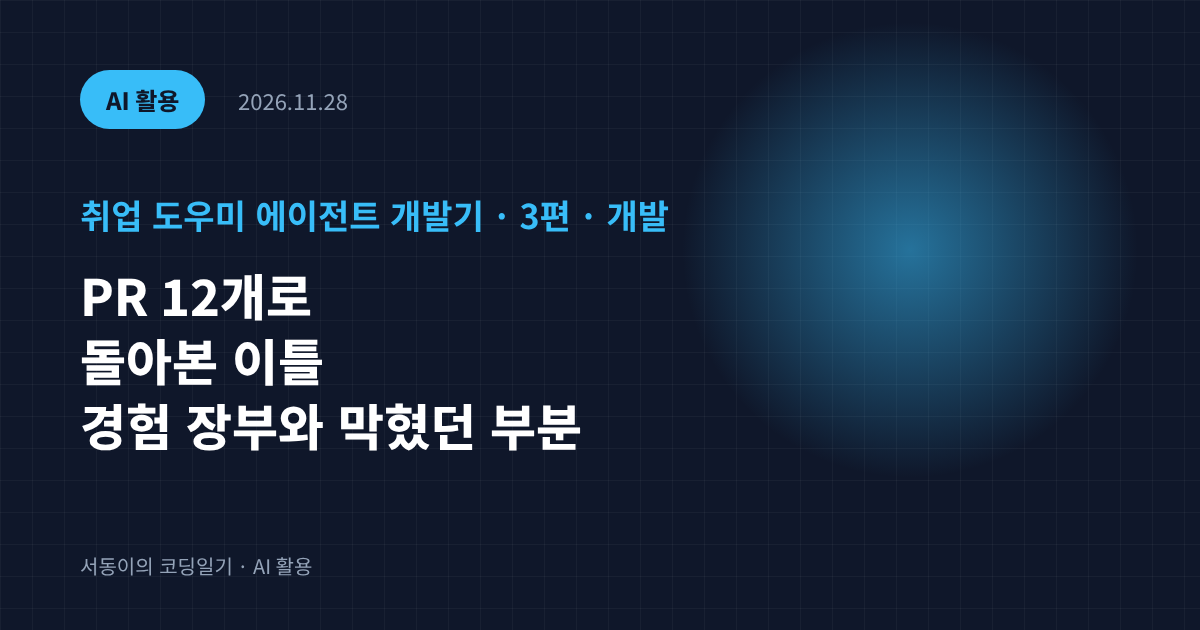
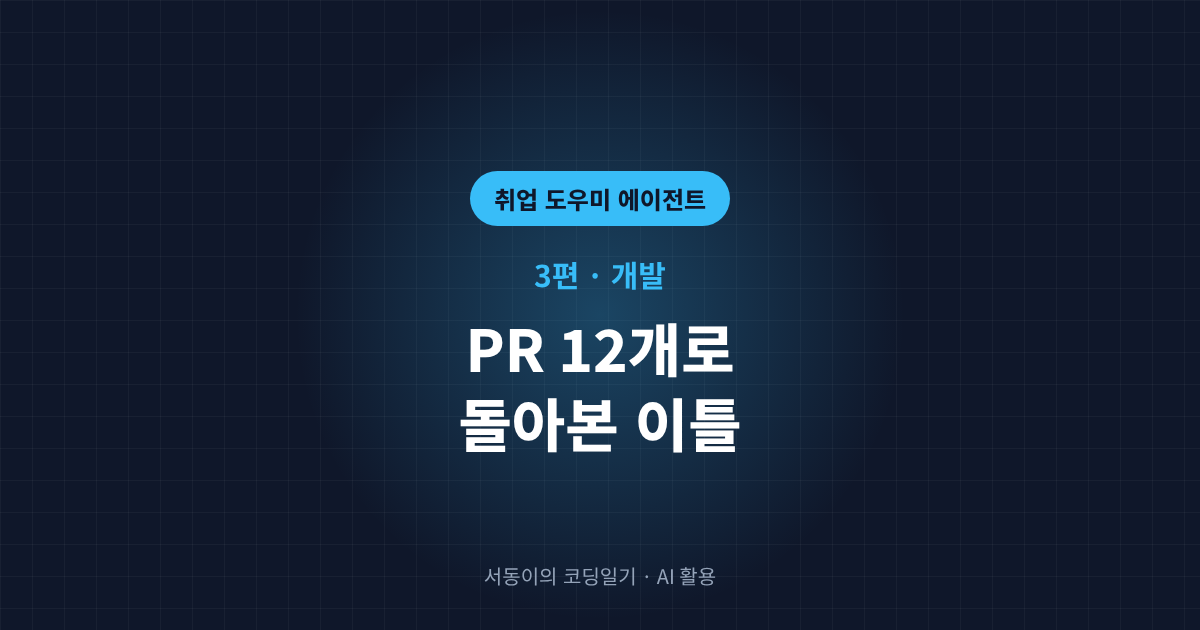
✏ 취업 도우미 에이전트 개발기 8편 제목 짧게, 대표 이미지 가운데 정렬
Claude-Session: https://claude.ai/code/session_01HW55fgg6YyHKDuQaFApbM1

diff --git a/README.md b/README.md
@@ -28,14 +28,14 @@
 - 🔬 **AI 심층 분석** · [AI가 뒤집어놓은 수학계 ① 리만 가설, 167년 난제를 AI가 풀었을까](ai-deep/2026/11/2026-11-28-ai-math-01-riemann.md) · [티스토리](https://dongseodong.tistory.com/81)
 - 🔬 **AI 심층 분석** · [AI가 뒤집어놓은 수학계 ② 양자 알고리즘, AI가 설계하고 증명까지 한 양자 회로](ai-deep/2026/11/2026-11-28-ai-math-02-quantum.md) · [티스토리](https://dongseodong.tistory.com/82)
 - 🔬 **AI 심층 분석** · [AI가 뒤집어놓은 수학계 ③ VP ≠ VNP, 47년 난제를 4시간 차이로 풀었다고 발표한 Claude와 OpenAI](ai-deep/2026/11/2026-11-28-ai-math-03-vp-vnp.md) · [티스토리](https://dongseodong.tistory.com/83)
-- 🧪 **AI 활용** · [취업 도우미 에이전트 개발기 1편 · 기획 (Figma, Notion)](ai-usage/2026/11/2026-11-28-job-helper-01-plan.md) · [티스토리](https://dongseodong.tistory.com/73)
-- 🧪 **AI 활용** · [취업 도우미 에이전트 개발기 2편 · 설계 (FastAPI, SQLite)](ai-usage/2026/11/2026-11-28-job-helper-02-design.md) · [티스토리](https://dongseodong.tistory.com/74)
-- 🧪 **AI 활용** · [취업 도우미 에이전트 개발기 3편 · 개발 (Notion OAuth, GitHub Actions)](ai-usage/2026/11/2026-11-28-job-helper-03-dev.md) · [티스토리](https://dongseodong.tistory.com/75)
-- 🧪 **AI 활용** · [취업 도우미 에이전트 개발기 · 윈도우에서만 터진 asyncio.run 오류 (FastAPI)](ai-usage/2026/11/2026-11-28-job-helper-asyncio-run-windows.md) · [티스토리](https://dongseodong.tistory.com/78)
-- 🧪 **AI 활용** · [취업 도우미 에이전트 개발기 · 앱에서 AI 구독을 쓰는 방법 (Claude Code CLI)](ai-usage/2026/11/2026-11-28-job-helper-official-cli.md) · [티스토리](https://dongseodong.tistory.com/80)
-- 🧪 **AI 활용** · [취업 도우미 에이전트 개발기 · 스택 PR이 main에 안 들어간 이유 (GitHub)](ai-usage/2026/11/2026-11-28-job-helper-stacked-pr-base.md) · [티스토리](https://dongseodong.tistory.com/77)
-- 🧪 **AI 활용** · [취업 도우미 에이전트 개발기 · 토큰 절약 vs 경험 누락 0 (LLM 설계)](ai-usage/2026/11/2026-11-28-job-helper-token-vs-zero-miss.md) · [티스토리](https://dongseodong.tistory.com/76)
-- 🧪 **AI 활용** · [취업 도우미 에이전트 개발기 · 맥에서 Windows 한국어 OCR 테스트하기 (GitHub Actions)](ai-usage/2026/11/2026-11-28-job-helper-windows-korean-ocr-ci.md) · [티스토리](https://dongseodong.tistory.com/79)
+- 🧪 **AI 활용** · [1편 기획: 한 사람을 위한 로컬 앱 (Figma, Notion)](ai-usage/2026/11/2026-11-28-job-helper-01-plan.md) · [티스토리](https://dongseodong.tistory.com/73)
+- 🧪 **AI 활용** · [2편 설계: 로컬 앱 구조와 15인 심사 (FastAPI, SQLite)](ai-usage/2026/11/2026-11-28-job-helper-02-design.md) · [티스토리](https://dongseodong.tistory.com/74)
+- 🧪 **AI 활용** · [3편 개발: PR 12개로 돌아본 이틀 (Notion OAuth, GitHub Actions)](ai-usage/2026/11/2026-11-28-job-helper-03-dev.md) · [티스토리](https://dongseodong.tistory.com/75)
+- 🧪 **AI 활용** · [윈도우에서만 터진 asyncio.run 오류 (FastAPI)](ai-usage/2026/11/2026-11-28-job-helper-asyncio-run-windows.md) · [티스토리](https://dongseodong.tistory.com/78)
+- 🧪 **AI 활용** · [앱에서 AI 구독을 쓰는 방법 (Claude Code CLI)](ai-usage/2026/11/2026-11-28-job-helper-official-cli.md) · [티스토리](https://dongseodong.tistory.com/80)
+- 🧪 **AI 활용** · [스택 PR이 main에 안 들어간 이유 (GitHub)](ai-usage/2026/11/2026-11-28-job-helper-stacked-pr-base.md) · [티스토리](https://dongseodong.tistory.com/77)
+- 🧪 **AI 활용** · [토큰 절약 vs 경험 누락 0 (LLM 설계)](ai-usage/2026/11/2026-11-28-job-helper-token-vs-zero-miss.md) · [티스토리](https://dongseodong.tistory.com/76)
+- 🧪 **AI 활용** · [맥에서 Windows 한국어 OCR 테스트하기 (GitHub Actions)](ai-usage/2026/11/2026-11-28-job-helper-windows-korean-ocr-ci.md) · [티스토리](https://dongseodong.tistory.com/79)
 - 💻 **Computer Science** · [OSI 7계층으로 이해하는 L2·L3·L4·L7 로드밸런서와 부하 분산 알고리즘](cs/2026/11/2026-11-28-load-balancer-types-osi.md) · [티스토리](https://dongseodong.tistory.com/85)
 - 💻 **Computer Science** · [택배 비유로 이해하는 계층별 역할, 프로토콜, 장비, 캡슐화](cs/2026/11/2026-11-28-osi-7-layer.md) · [티스토리](https://dongseodong.tistory.com/84)
 

diff --git a/ai-usage/README.md b/ai-usage/README.md
@@ -7,13 +7,13 @@
 
 ## 2026-11
 
-- 2026-11-28 · [취업 도우미 에이전트 개발기 1편 · 기획 (Figma, Notion)](2026/11/2026-11-28-job-helper-01-plan.md) · [티스토리](https://dongseodong.tistory.com/73)
-- 2026-11-28 · [취업 도우미 에이전트 개발기 2편 · 설계 (FastAPI, SQLite)](2026/11/2026-11-28-job-helper-02-design.md) · [티스토리](https://dongseodong.tistory.com/74)
-- 2026-11-28 · [취업 도우미 에이전트 개발기 3편 · 개발 (Notion OAuth, GitHub Actions)](2026/11/2026-11-28-job-helper-03-dev.md) · [티스토리](https://dongseodong.tistory.com/75)
-- 2026-11-28 · [취업 도우미 에이전트 개발기 · 윈도우에서만 터진 asyncio.run 오류 (FastAPI)](2026/11/2026-11-28-job-helper-asyncio-run-windows.md) · [티스토리](https://dongseodong.tistory.com/78)
-- 2026-11-28 · [취업 도우미 에이전트 개발기 · 앱에서 AI 구독을 쓰는 방법 (Claude Code CLI)](2026/11/2026-11-28-job-helper-official-cli.md) · [티스토리](https://dongseodong.tistory.com/80)
-- 2026-11-28 · [취업 도우미 에이전트 개발기 · 스택 PR이 main에 안 들어간 이유 (GitHub)](2026/11/2026-11-28-job-helper-stacked-pr-base.md) · [티스토리](https://dongseodong.tistory.com/77)
-- 2026-11-28 · [취업 도우미 에이전트 개발기 · 토큰 절약 vs 경험 누락 0 (LLM 설계)](2026/11/2026-11-28-job-helper-token-vs-zero-miss.md) · [티스토리](https://dongseodong.tistory.com/76)
-- 2026-11-28 · [취업 도우미 에이전트 개발기 · 맥에서 Windows 한국어 OCR 테스트하기 (GitHub Actions)](2026/11/2026-11-28-job-helper-windows-korean-ocr-ci.md) · [티스토리](https://dongseodong.tistory.com/79)
+- 2026-11-28 · [1편 기획: 한 사람을 위한 로컬 앱 (Figma, Notion)](2026/11/2026-11-28-job-helper-01-plan.md) · [티스토리](https://dongseodong.tistory.com/73)
+- 2026-11-28 · [2편 설계: 로컬 앱 구조와 15인 심사 (FastAPI, SQLite)](2026/11/2026-11-28-job-helper-02-design.md) · [티스토리](https://dongseodong.tistory.com/74)
+- 2026-11-28 · [3편 개발: PR 12개로 돌아본 이틀 (Notion OAuth, GitHub Actions)](2026/11/2026-11-28-job-helper-03-dev.md) · [티스토리](https://dongseodong.tistory.com/75)
+- 2026-11-28 · [윈도우에서만 터진 asyncio.run 오류 (FastAPI)](2026/11/2026-11-28-job-helper-asyncio-run-windows.md) · [티스토리](https://dongseodong.tistory.com/78)
+- 2026-11-28 · [앱에서 AI 구독을 쓰는 방법 (Claude Code CLI)](2026/11/2026-11-28-job-helper-official-cli.md) · [티스토리](https://dongseodong.tistory.com/80)
+- 2026-11-28 · [스택 PR이 main에 안 들어간 이유 (GitHub)](2026/11/2026-11-28-job-helper-stacked-pr-base.md) · [티스토리](https://dongseodong.tistory.com/77)
+- 2026-11-28 · [토큰 절약 vs 경험 누락 0 (LLM 설계)](2026/11/2026-11-28-job-helper-token-vs-zero-miss.md) · [티스토리](https://dongseodong.tistory.com/76)
+- 2026-11-28 · [맥에서 Windows 한국어 OCR 테스트하기 (GitHub Actions)](2026/11/2026-11-28-job-helper-windows-korean-ocr-ci.md) · [티스토리](https://dongseodong.tistory.com/79)
 - 2026-11-26 · [맥 미니 한 대로 티스토리 매일 3편 자동 발행하기 (launchd + Playwright + Pillow)](2026/11/2026-11-26-tistory-automation-mac-mini-batch.md) · [티스토리](https://dongseodong.tistory.com/66)
 - 2026-11-26 · [티스토리 블로그 GEO 세팅기: ChatGPT·Perplexity 같은 AI 검색에 잘 잡히게 만들기](2026/11/2026-11-26-tistory-geo-setup.md) · [티스토리](https://dongseodong.tistory.com/67)

diff --git a/ai-usage/2026/11/2026-11-28-job-helper-windows-korean-ocr-ci.md b/ai-usage/2026/11/2026-11-28-job-helper-windows-korean-ocr-ci.md
@@ -1,12 +1,12 @@
 ---
-title: "취업 도우미 에이전트 개발기 · 맥에서 Windows 한국어 OCR 테스트하기 (GitHub Actions)"
+title: "맥에서 Windows 한국어 OCR 테스트하기 (GitHub Actions)"
 date: 2026-11-28
 category: "AI 활용"
 tistory: https://dongseodong.tistory.com/79
 tags: ["GitHubActions", "CI", "WindowsOCR", "한국어OCR", "PowerShell", "윈도우러너", "파이썬", "취업도우미에이전트", "AI활용"]
 cover: assets/2026-11-28-job-helper-windows-korean-ocr-ci.png
 ---
-# 취업 도우미 에이전트 개발기 · 맥에서 Windows 한국어 OCR 테스트하기 (GitHub Actions)
+# 맥에서 Windows 한국어 OCR 테스트하기 (GitHub Actions)
 
 > 🧪 **AI 활용** · 2026-11-28 · 📝 [티스토리에서 보기](https://dongseodong.tistory.com/79)
 

diff --git a/ai-usage/2026/11/2026-11-28-job-helper-03-dev.md b/ai-usage/2026/11/2026-11-28-job-helper-03-dev.md
@@ -1,12 +1,12 @@
 ---
-title: "취업 도우미 에이전트 개발기 3편 · 개발 (Notion OAuth, GitHub Actions)"
+title: "3편 개발: PR 12개로 돌아본 이틀 (Notion OAuth, GitHub Actions)"
 date: 2026-11-28
 category: "AI 활용"
 tistory: https://dongseodong.tistory.com/75
 tags: ["취업도우미에이전트", "ClaudeCode", "FastAPI", "NotionAPI", "OAuth", "OCR", "GitHubActions", "사이드프로젝트", "AI활용"]
 cover: assets/2026-11-28-job-helper-03-dev.png
 ---
-# 취업 도우미 에이전트 개발기 3편 · 개발 (Notion OAuth, GitHub Actions)
+# 3편 개발: PR 12개로 돌아본 이틀 (Notion OAuth, GitHub Actions)
 
 > 🧪 **AI 활용** · 2026-11-28 · 📝 [티스토리에서 보기](https://dongseodong.tistory.com/75)
 

diff --git a/ai-usage/2026/11/2026-11-28-job-helper-asyncio-run-windows.md b/ai-usage/2026/11/2026-11-28-job-helper-asyncio-run-windows.md
@@ -1,12 +1,12 @@
 ---
-title: "취업 도우미 에이전트 개발기 · 윈도우에서만 터진 asyncio.run 오류 (FastAPI)"
+title: "윈도우에서만 터진 asyncio.run 오류 (FastAPI)"
 date: 2026-11-28
 category: "AI 활용"
 tistory: https://dongseodong.tistory.com/78
 tags: ["파이썬", "asyncio", "FastAPI", "이벤트루프", "WindowsOCR", "WinRT", "스레드풀", "취업도우미에이전트", "AI활용"]
 cover: assets/2026-11-28-job-helper-asyncio-run-windows.png
 ---
-# 취업 도우미 에이전트 개발기 · 윈도우에서만 터진 asyncio.run 오류 (FastAPI)
+# 윈도우에서만 터진 asyncio.run 오류 (FastAPI)
 
 > 🧪 **AI 활용** · 2026-11-28 · 📝 [티스토리에서 보기](https://dongseodong.tistory.com/78)
 

diff --git a/ai-usage/2026/11/2026-11-28-job-helper-official-cli.md b/ai-usage/2026/11/2026-11-28-job-helper-official-cli.md
@@ -1,12 +1,12 @@
 ---
-title: "취업 도우미 에이전트 개발기 · 앱에서 AI 구독을 쓰는 방법 (Claude Code CLI)"
+title: "앱에서 AI 구독을 쓰는 방법 (Claude Code CLI)"
 date: 2026-11-28
 category: "AI 활용"
 tistory: https://dongseodong.tistory.com/80
 tags: ["ClaudeCode", "GeminiCLI", "CLI", "AI구독", "LLM연동", "subprocess", "약관", "취업도우미에이전트", "AI활용"]
 cover: assets/2026-11-28-job-helper-official-cli.png
 ---
-# 취업 도우미 에이전트 개발기 · 앱에서 AI 구독을 쓰는 방법 (Claude Code CLI)
+# 앱에서 AI 구독을 쓰는 방법 (Claude Code CLI)
 
 > 🧪 **AI 활용** · 2026-11-28 · 📝 [티스토리에서 보기](https://dongseodong.tistory.com/80)
 

diff --git a/ai-usage/2026/11/2026-11-28-job-helper-stacked-pr-base.md b/ai-usage/2026/11/2026-11-28-job-helper-stacked-pr-base.md
@@ -1,12 +1,12 @@
 ---
-title: "취업 도우미 에이전트 개발기 · 스택 PR이 main에 안 들어간 이유 (GitHub)"
+title: "스택 PR이 main에 안 들어간 이유 (GitHub)"
 date: 2026-11-28
 category: "AI 활용"
 tistory: https://dongseodong.tistory.com/77
 tags: ["GitHub", "PullRequest", "스택PR", "StackedPR", "git", "브랜치전략", "rebase", "취업도우미에이전트", "AI활용"]
 cover: assets/2026-11-28-job-helper-stacked-pr-base.png
 ---
-# 취업 도우미 에이전트 개발기 · 스택 PR이 main에 안 들어간 이유 (GitHub)
+# 스택 PR이 main에 안 들어간 이유 (GitHub)
 
 > 🧪 **AI 활용** · 2026-11-28 · 📝 [티스토리에서 보기](https://dongseodong.tistory.com/77)
 

diff --git a/ai-usage/2026/11/2026-11-28-job-helper-token-vs-zero-miss.md b/ai-usage/2026/11/2026-11-28-job-helper-token-vs-zero-miss.md
@@ -1,12 +1,12 @@
 ---
-title: "취업 도우미 에이전트 개발기 · 토큰 절약 vs 경험 누락 0 (LLM 설계)"
+title: "토큰 절약 vs 경험 누락 0 (LLM 설계)"
 date: 2026-11-28
 category: "AI 활용"
 tistory: https://dongseodong.tistory.com/76
 tags: ["취업도우미에이전트", "LLM설계", "토큰절약", "프롬프트캐시", "증분갱신", "해시", "ClaudeCode", "AI활용", "RAG"]
 cover: assets/2026-11-28-job-helper-token-vs-zero-miss.png
 ---
-# 취업 도우미 에이전트 개발기 · 토큰 절약 vs 경험 누락 0 (LLM 설계)
+# 토큰 절약 vs 경험 누락 0 (LLM 설계)
 
 > 🧪 **AI 활용** · 2026-11-28 · 📝 [티스토리에서 보기](https://dongseodong.tistory.com/76)
 

diff --git a/ai-usage/2026/11/2026-11-28-job-helper-02-design.md b/ai-usage/2026/11/2026-11-28-job-helper-02-design.md
@@ -1,12 +1,12 @@
 ---
-title: "취업 도우미 에이전트 개발기 2편 · 설계 (FastAPI, SQLite)"
+title: "2편 설계: 로컬 앱 구조와 15인 심사 (FastAPI, SQLite)"
 date: 2026-11-28
 category: "AI 활용"
 tistory: https://dongseodong.tistory.com/74
 tags: ["취업도우미에이전트", "FastAPI", "SQLite", "토큰절약", "LLM설계", "개인정보", "로컬앱", "ClaudeCode", "AI활용"]
 cover: assets/2026-11-28-job-helper-02-design.png
 ---
-# 취업 도우미 에이전트 개발기 2편 · 설계 (FastAPI, SQLite)
+# 2편 설계: 로컬 앱 구조와 15인 심사 (FastAPI, SQLite)
 
 > 🧪 **AI 활용** · 2026-11-28 · 📝 [티스토리에서 보기](https://dongseodong.tistory.com/74)
 

diff --git a/ai-usage/2026/11/2026-11-28-job-helper-01-plan.md b/ai-usage/2026/11/2026-11-28-job-helper-01-plan.md
@@ -1,12 +1,12 @@
 ---
-title: "취업 도우미 에이전트 개발기 1편 · 기획 (Figma, Notion)"
+title: "1편 기획: 한 사람을 위한 로컬 앱 (Figma, Notion)"
 date: 2026-11-28
 category: "AI 활용"
 tistory: https://dongseodong.tistory.com/73
 tags: ["취업도우미에이전트", "사이드프로젝트", "기획", "피그마", "노션", "ClaudeCode", "AI활용", "로컬앱", "증권사취업"]
 cover: assets/2026-11-28-job-helper-01-plan.png
 ---
-# 취업 도우미 에이전트 개발기 1편 · 기획 (Figma, Notion)
+# 1편 기획: 한 사람을 위한 로컬 앱 (Figma, Notion)
 
 > 🧪 **AI 활용** · 2026-11-28 · 📝 [티스토리에서 보기](https://dongseodong.tistory.com/73)
 
